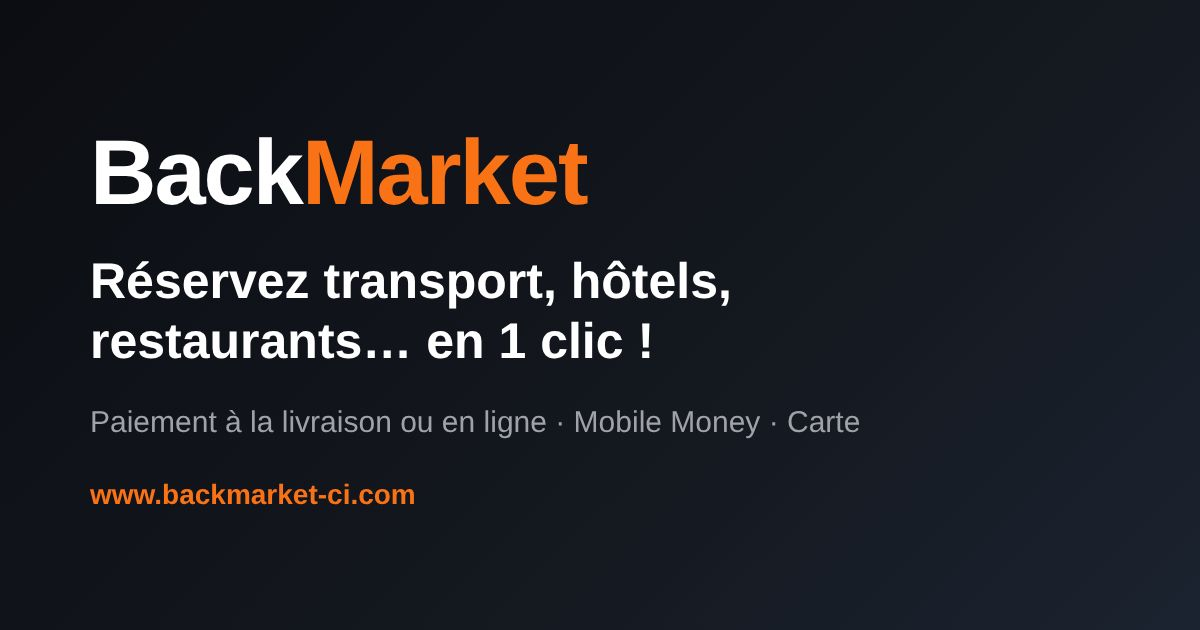
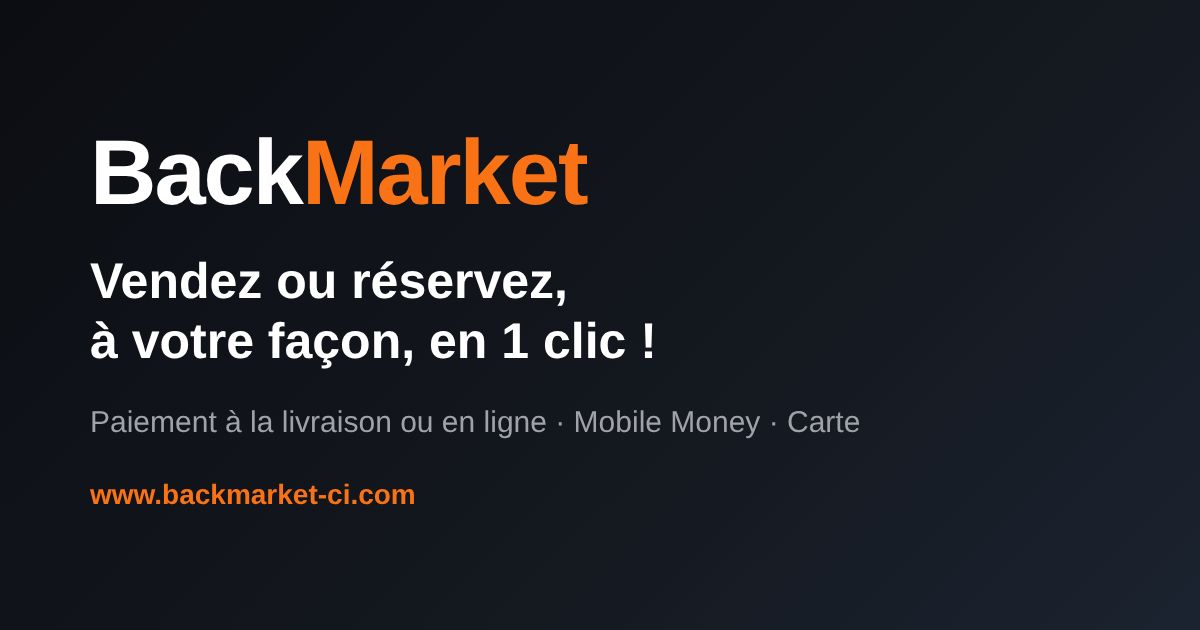
Nouveau titre et image d'aperçu de partage

Changed region(s): [[0.0617, 0.4222, 0.6167, 0.4825], [0.0617, 0.5127, 0.555, 0.573]]

diff --git a/index.html b/index.html
@@ -10,20 +10,20 @@
     <meta name="mobile-web-app-capable" content="yes" />
     <meta name="apple-mobile-web-app-capable" content="yes" />
     <meta name="apple-mobile-web-app-title" content="BackMarket" />
-    <meta name="description" content="Les meilleures offres près de chez vous, auprès de prestataires validés. Payez à la livraison ou en ligne (Mobile Money, carte). Simple, rapide, sûr." />
-    <title>BackMarket : réservez transport, hôtels, restaurants… en 1 clic !</title>
+    <meta name="description" content="Marchands : publiez vos offres, fixez vos conditions, encaissez en ligne ou à la livraison. Clients : transport, hôtels, restaurants… payez comme vous voulez. Une offre unique, zéro contrainte." />
+    <title>BackMarket : vendez ou réservez, à votre façon, en 1 clic !</title>
     <meta property="og:type" content="website" />
     <meta property="og:site_name" content="BackMarket" />
     <meta property="og:locale" content="fr_FR" />
-    <meta property="og:title" content="BackMarket : réservez transport, hôtels, restaurants… en 1 clic !" />
-    <meta property="og:description" content="Les meilleures offres près de chez vous, auprès de prestataires validés. Payez à la livraison ou en ligne (Mobile Money, carte). Simple, rapide, sûr." />
+    <meta property="og:title" content="BackMarket : vendez ou réservez, à votre façon, en 1 clic !" />
+    <meta property="og:description" content="Marchands : publiez vos offres, fixez vos conditions, encaissez en ligne ou à la livraison. Clients : transport, hôtels, restaurants… payez comme vous voulez. Une offre unique, zéro contrainte." />
     <meta property="og:url" content="https://www.backmarket-ci.com/" />
     <meta property="og:image" content="https://www.backmarket-ci.com/og.jpg" />
     <meta property="og:image:width" content="1200" />
     <meta property="og:image:height" content="630" />
     <meta name="twitter:card" content="summary_large_image" />
-    <meta name="twitter:title" content="BackMarket : réservez transport, hôtels, restaurants… en 1 clic !" />
-    <meta name="twitter:description" content="Les meilleures offres près de chez vous, auprès de prestataires validés. Payez à la livraison ou en ligne (Mobile Money, carte). Simple, rapide, sûr." />
+    <meta name="twitter:title" content="BackMarket : vendez ou réservez, à votre façon, en 1 clic !" />
+    <meta name="twitter:description" content="Marchands : publiez vos offres, fixez vos conditions, encaissez en ligne ou à la livraison. Clients : transport, hôtels, restaurants… payez comme vous voulez. Une offre unique, zéro contrainte." />
     <meta name="twitter:image" content="https://www.backmarket-ci.com/og.jpg" />
   </head>
   <body>

diff --git a/tests/api.test.ts b/tests/api.test.ts
@@ -924,7 +924,7 @@ describe('aperçu de partage (WhatsApp, Facebook…)', () => {
     for (const id of [offer.id, '11111111-1111-1111-1111-111111111111', 'pas-un-id']) {
       const r = await page(id);
       expect(r.status).toBe(200);
-      expect(r.html).toContain('BackMarket : réservez');
+      expect(r.html).toContain('BackMarket : vendez ou réservez');
       expect(r.html).toContain('/og.jpg');
     }
   });
@@ -1185,6 +1185,6 @@ describe('boutique du marchand (catalogue individuel)', () => {
     expect(html).toContain('Bus Abidjan : commandez et réservez en ligne');
     expect(html).toContain(`https://www.backmarket-ci.com/boutique/${co.id}`);
     const none = await (await app.request('https://www.backmarket-ci.com/boutique/pas-un-id', { headers: { host: 'www.backmarket-ci.com' } })).text();
-    expect(none).toContain('BackMarket : réservez');
+    expect(none).toContain('BackMarket : vendez ou réservez');
   });
 });

diff --git a/shared/site.ts b/shared/site.ts
@@ -5,8 +5,8 @@ export const SITE = {
   url: 'https://www.backmarket-ci.com',
   tagline: 'Réservez en Afrique, simplement.',
   /** Titre et description affichés quand le lien est partagé (WhatsApp, Facebook, LinkedIn…). */
-  shareTitle: 'BackMarket : réservez transport, hôtels, restaurants… en 1 clic !',
-  shareDescription: 'Les meilleures offres près de chez vous, auprès de prestataires validés. Payez à la livraison ou en ligne (Mobile Money, carte). Simple, rapide, sûr.',
+  shareTitle: 'BackMarket : vendez ou réservez, à votre façon, en 1 clic !',
+  shareDescription: 'Marchands : publiez vos offres, fixez vos conditions, encaissez en ligne ou à la livraison. Clients : transport, hôtels, restaurants… payez comme vous voulez. Une offre unique, zéro contrainte.',
   company: 'NEXUS',
   copyright: 'NEXUS Côte d’Ivoire',
   address: 'Cocody Riviera 2, Immeuble Paul, Abidjan, Côte d’Ivoire',
